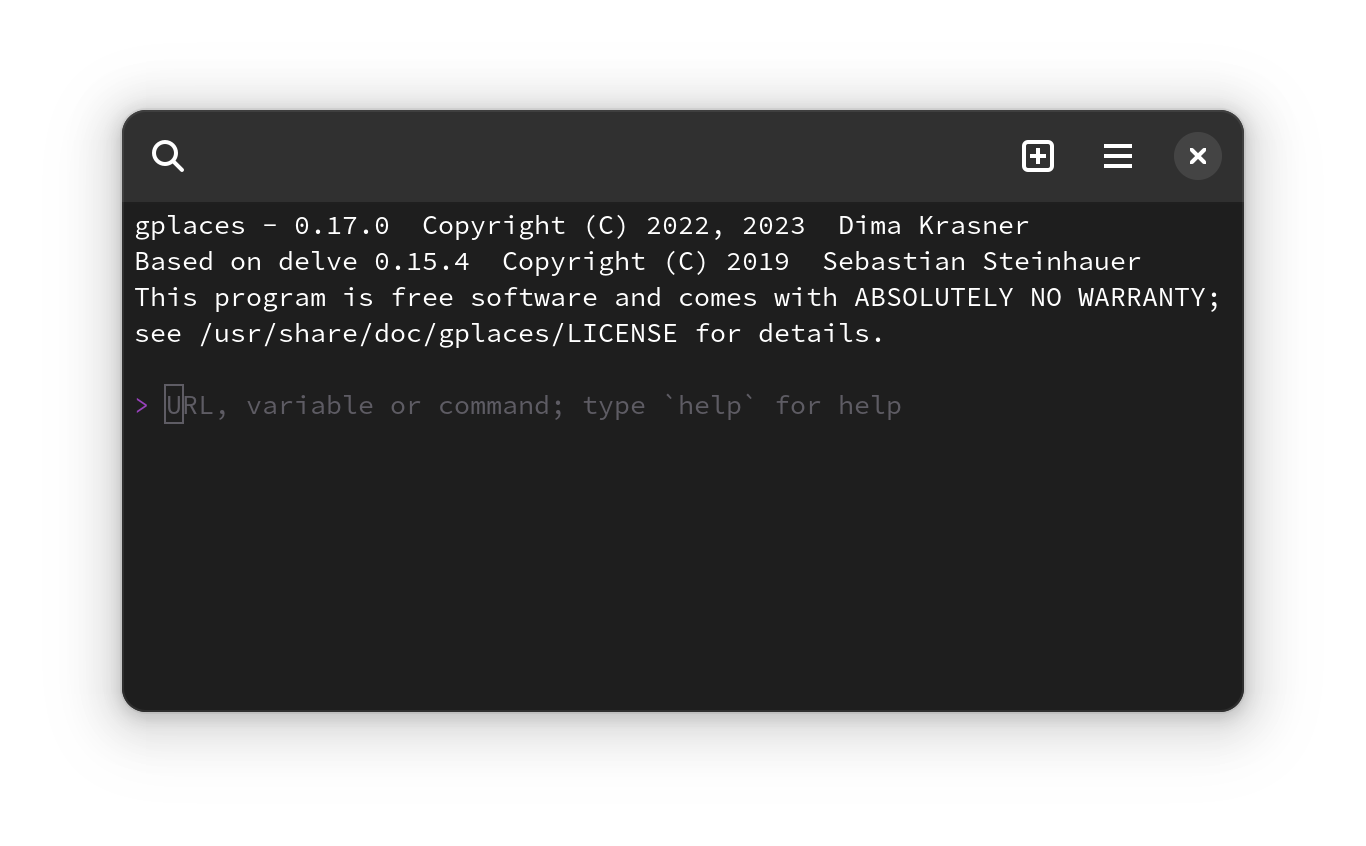
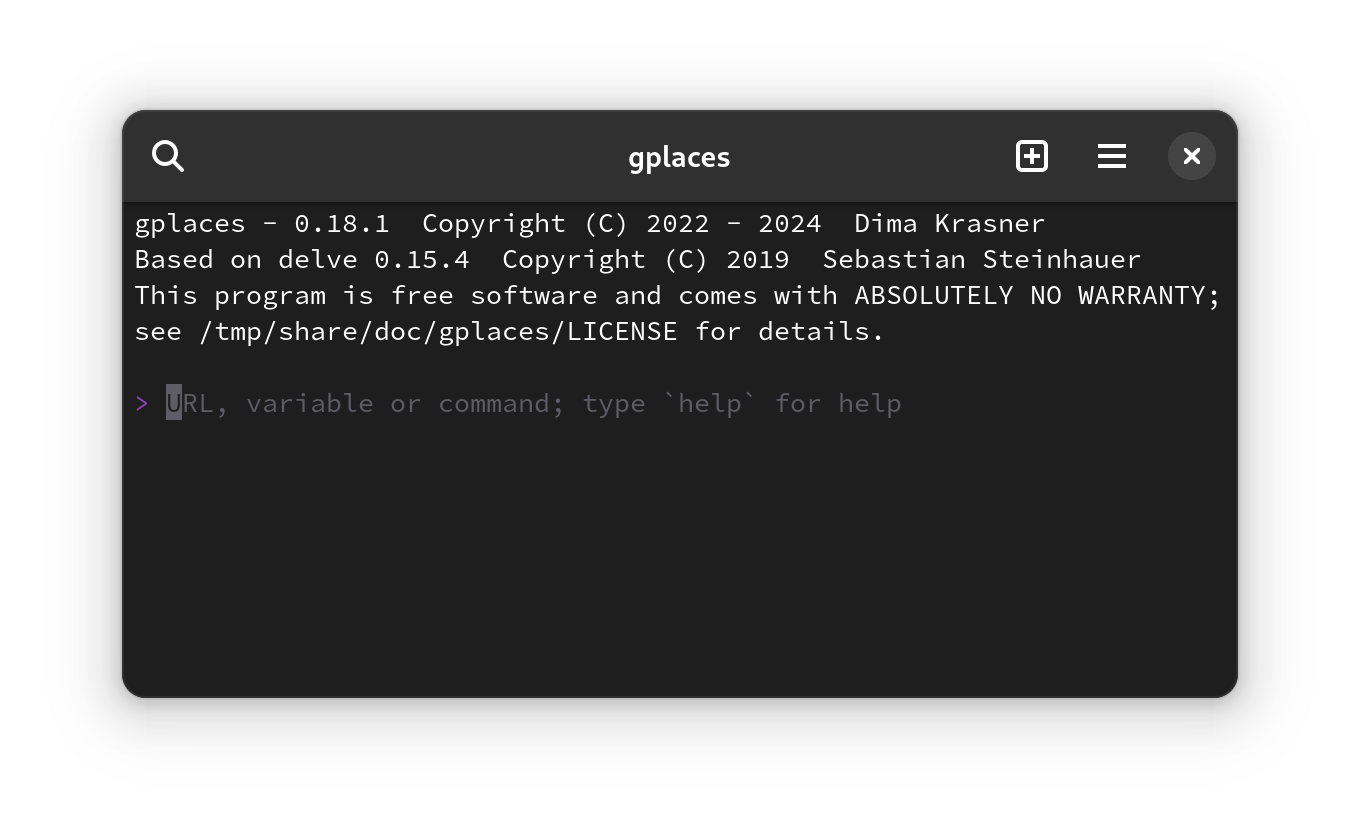
update copyright year

diff --git a/gplaces.c b/gplaces.c
@@ -2,7 +2,7 @@
 ================================================================================
 
 	gplaces - a simple terminal Gemini client
-    Copyright (C) 2022, 2023  Dima Krasner
+    Copyright (C) 2022 - 2024  Dima Krasner
     Copyright (C) 2019  Sebastian Steinhauer
 
     This program is free software: you can redistribute it and/or modify
@@ -1779,7 +1779,7 @@ int main(int argc, char **argv) {
 	load_rc_files(parse_arguments(argc, argv));
 
 	if (interactive) puts(
-		"gplaces - "GPLACES_VERSION"  Copyright (C) 2022, 2023  Dima Krasner\n" \
+		"gplaces - "GPLACES_VERSION"  Copyright (C) 2022 - 2024  Dima Krasner\n" \
 		"Based on delve 0.15.4  Copyright (C) 2019  Sebastian Steinhauer\n" \
 		"This program is free software and comes with ABSOLUTELY NO WARRANTY;\n" \
 		"see "PREFIX"/share/doc/gplaces/LICENSE for details.\n"
